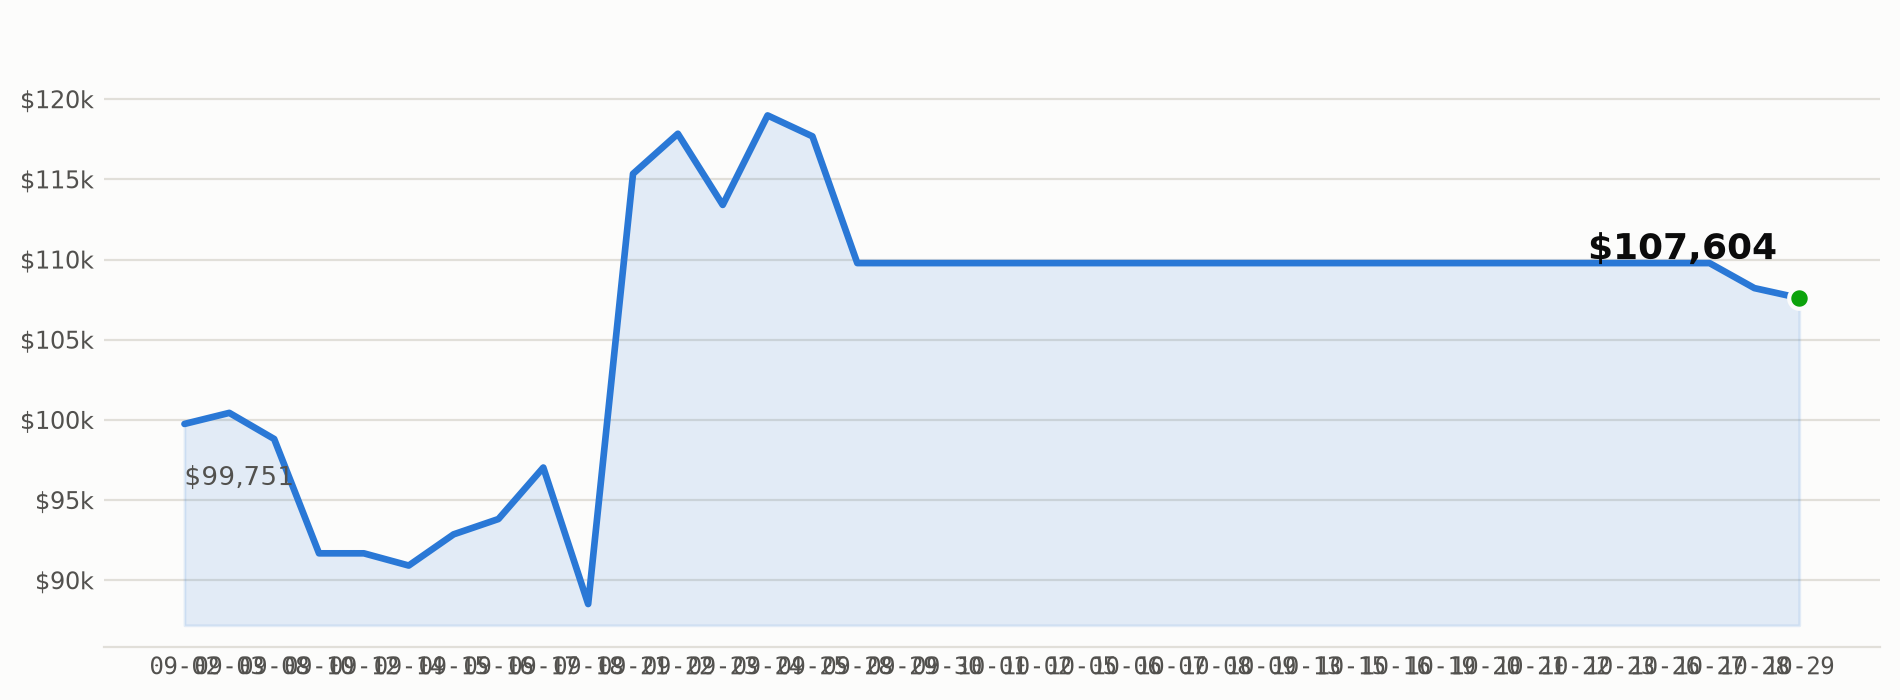
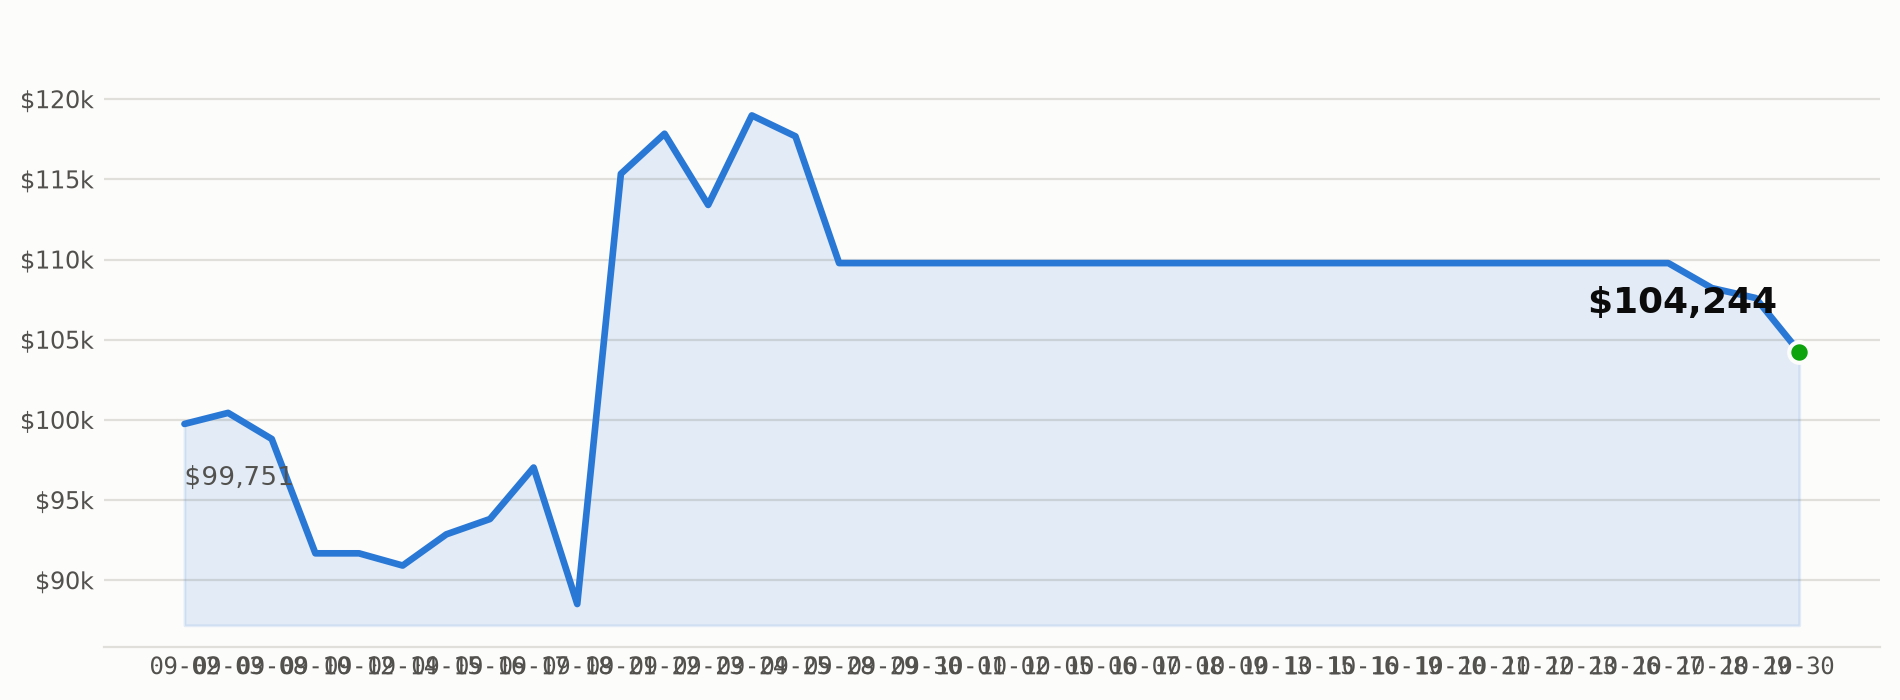
Daily dashboard update for 2026-10-30
Automated commit from scripts/daily_run.py after the market-close run.

diff --git a/README.md b/README.md
@@ -4,15 +4,15 @@ An autonomous AI trading agent for Alpaca's **Options Alpha** hackathon track.
 
 <!-- PNL_DASHBOARD_START: auto-regenerated daily by scripts/update_readme_dashboard.py - do not hand-edit between these markers, it will be overwritten -->
 <p align="center">
-  <img src="https://img.shields.io/badge/return-%2B7.60%25-0ca30c?style=for-the-badge" alt="Total return +7.60%">
-  <img src="https://img.shields.io/badge/P%26L-%2B%247%2C604-0ca30c?style=for-the-badge" alt="Total P&L">
+  <img src="https://img.shields.io/badge/return-%2B4.24%25-0ca30c?style=for-the-badge" alt="Total return +4.24%">
+  <img src="https://img.shields.io/badge/P%26L-%2B%244%2C244-0ca30c?style=for-the-badge" alt="Total P&L">
   <img src="https://img.shields.io/badge/win_rate-40%25-2a78d6?style=for-the-badge" alt="Win rate 40%">
   <img src="https://img.shields.io/badge/trades_closed-5-2a78d6?style=for-the-badge" alt="5 trades closed">
   <img src="https://img.shields.io/badge/status-autonomous-0ca30c?style=for-the-badge" alt="Status: autonomous">
 </p>
 
 <p align="center">
-  <img src="docs/equity_curve.png?v=2026-10-29-107604" alt="AlphaCa account equity over time, currently $107,604" width="800">
+  <img src="docs/equity_curve.png?v=2026-10-30-104244" alt="AlphaCa account equity over time, currently $104,244" width="800">
 </p>
 <!-- PNL_DASHBOARD_END -->
 
